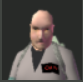
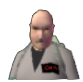
Updated Mortal Panel

diff --git a/lib/GameScrens/03_Haunting/Haunting_Screen/GUI/SidePanel/SidePanel_ByCategory/Mortals/Panel/MortalPanel_GUI.dart b/lib/GameScrens/03_Haunting/Haunting_Screen/GUI/SidePanel/SidePanel_ByCategory/Mortals/Panel/MortalPanel_GUI.dart
@@ -3,25 +3,32 @@ import 'package:flutter/material.dart';
 import 'package:flutter/src/widgets/framework.dart';
 import 'package:happyhaunting/Data/Database/Enums/Tags/Power/05_PowerTag.dart';
 import 'package:happyhaunting/GameScrens/03_Haunting/Haunting_Game/Classes/Mortal/Haunting_Mortal.dart';
+import 'package:happyhaunting/GameScrens/03_Haunting/Haunting_Screen/GUI/SidePanel/SidePanel_ByCategory/Ghosts/Panel/GhostPanel_GUI.dart';
 import 'package:happyhaunting/GameScrens/03_Haunting/ViewModel/HauntingGame_ViewModel.dart';
 
 class MortalPanel_GUI{
   static getMortalPanel(BuildContext context, double width, double height, HauntingGame_ViewModel viewModel, Haunting_Mortal mortal) {
 
-    double bars_Width = width * 0.5;
+    double bars_Width = width * 0.6;
     double bars_Height = height * 0.9;
+    double bars_Padding_Right = bars_Width * 0.05;
     return Container(
       height: height, width: width,
       child: Stack(
         alignment: Alignment(0, 0),
         children: [
           //BACKGROUND
+          GhostPanel_GUI.getBackground(context, mortal.isDefeated, height, width),
+          //MOON
+          Positioned(top: 0, left: 0, child: GhostPanel_GUI.getMoonImage(!mortal.isDefeated, height)),
           //MORTAL IMAGE
           Positioned(top: 0, left: 0, child: getMortalImage(width, height, mortal, viewModel)),
+
           //STATS
-          Positioned(right: 0, child: getMortalBars(bars_Width, bars_Height, mortal, viewModel)),
-          //FEAR
-          Positioned(left: 0, child: getMortalFear(mortal, viewModel)),
+          Positioned(right: bars_Padding_Right, child: getMortalBars(bars_Width, bars_Height, mortal, viewModel)),
+
+          // //FEAR
+          // Positioned(left: 0, child: getMortalFear(mortal, viewModel)),
 
         ],
       ),
@@ -37,39 +44,34 @@ class MortalPanel_GUI{
     );
   }
 
-  static getMortalStats(double width, double height, Haunting_Mortal mortal, HauntingGame_ViewModel viewModel) {
-    return Container(
-      height: height, width: width, color: Colors.white,
-      child: Column(
-        mainAxisAlignment: MainAxisAlignment.center,
-        children: [
-          Text("${mortal.stat_Current_Health} / ${mortal.stat_Health}"),
-          Text("${mortal.stat_Current_Fear} / ${mortal.stat_Fear}"),
-          Text("${mortal.stat_Current_Madness} / ${mortal.stat_Madness}"),
-          Text("${mortal.stat_Current_Faith} / ${mortal.stat_Faith}"),
-        ],
-      ),
-    );
-  }
-
   static getMortalBars(double width, double height, Haunting_Mortal mortal, HauntingGame_ViewModel viewModel) {
     double paddingHeight = height * 0.08;
-    double bar_Height = (height - paddingHeight * 5) / 4;
+    double bar_Height = (height - paddingHeight) * 0.25;
+    double bar_Width = width * 0.45;
+    double bar_Padding_Middle = (width - bar_Width * 2) * 0.3;
 
     return Container(
       height: height, width: width,
       child: Column(
         mainAxisAlignment: MainAxisAlignment.center,
         children: [
+          Row(
+            mainAxisAlignment: MainAxisAlignment.center,
+            children: [
+              getMortalBar_ByStat(bar_Width, bar_Height, mortal.stat_Current_Health, mortal.stat_Health, "Red"),
+              Padding(padding: EdgeInsets.only(left: bar_Padding_Middle)),
+              getMortalBar_ByStat(bar_Width, bar_Height, mortal.stat_Current_Fear, mortal.stat_Fear, "Green"),
+            ],
+          ),
           Padding(padding: EdgeInsets.only(top: paddingHeight)),
-          getMortalBar_ByStat(width, bar_Height, mortal.stat_Current_Health, mortal.stat_Health, "Red"),
-          Padding(padding: EdgeInsets.only(top: paddingHeight)),
-          getMortalBar_ByStat(width, bar_Height, mortal.stat_Current_Fear, mortal.stat_Fear, "Purple"),
-          Padding(padding: EdgeInsets.only(top: paddingHeight)),
-          getMortalBar_ByStat(width, bar_Height, mortal.stat_Current_Madness, mortal.stat_Madness, "Yellow"),
-          Padding(padding: EdgeInsets.only(top: paddingHeight)),
-          getMortalBar_ByStat(width, bar_Height, mortal.stat_Current_Faith, mortal.stat_Faith, "Blue"),
-          Padding(padding: EdgeInsets.only(top: paddingHeight)),
+          Row(
+            mainAxisAlignment: MainAxisAlignment.center,
+            children: [
+              getMortalBar_ByStat(bar_Width, bar_Height, mortal.stat_Current_Madness, mortal.stat_Madness, "Yellow"),
+              Padding(padding: EdgeInsets.only(left: bar_Padding_Middle)),
+              getMortalBar_ByStat(bar_Width, bar_Height, mortal.stat_Current_Faith, mortal.stat_Faith, "Blue"),
+            ],
+          )
         ],
       ),
     );
@@ -118,5 +120,6 @@ class MortalPanel_GUI{
     }
     return Text(fear);
   }
+
 
 }

diff --git a/lib/GameScrens/03_Haunting/Haunting_Screen/GUI/SidePanel/SidePanel_ByCategory/Ghosts/Panel/GhostPanel_GUI.dart b/lib/GameScrens/03_Haunting/Haunting_Screen/GUI/SidePanel/SidePanel_ByCategory/Ghosts/Panel/GhostPanel_GUI.dart
@@ -33,9 +33,9 @@ class GhostPanel_GUI{
         alignment: Alignment(0, 0),
         children: [
           //BACKGROUND
-          getBackground(context, ghost.isDefeated, height),
+          getBackground(context, ghost.isDefeated, height, width),
           //MOON
-          Positioned(top: 0, left: 0, child: getMoonImage(ghost.isPlaced, height, isGhostChosen)),
+          Positioned(top: 0, left: 0, child: getMoonImage(ghost.isPlaced, height, isGhostChosen: isGhostChosen)),
           //GHOST IMAGE
           Positioned(top: 0, left: 0, child: getGhostImage(width, height, ghost, viewModel)),
           //POWERS
@@ -149,18 +149,20 @@ class GhostPanel_GUI{
     // return Text("${ghost.health_Current} / ${ghost.health_Maximum}");
   }
 
-  static getBackground(BuildContext context, bool isDefeated, double height) {
+  static getBackground(BuildContext context, bool isDefeated, double height, double width) {
     String background = "assets/images/UI/SidePanel/Panel_Background.png";
     if(isDefeated){
       background = "assets/images/UI/SidePanel/Panel_Background_Exorcist.png";
     }
     return Container(
-      height: height,
-      child: Image.asset(background, fit: BoxFit.fitHeight,),
+      height: height, width: width,
+      child: Image.asset(background, fit: BoxFit.fitWidth,),
     );
   }
 
-  static getMoonImage(bool isPlaced, double height, bool isGhostChosen) {
+  static getMoonImage(bool isPlaced, double height, {
+    bool isGhostChosen = false
+  }) {
     String background = "assets/images/UI/SidePanel/Moon_InActive.png";
     if(isPlaced || isGhostChosen){
       background = "assets/images/UI/SidePanel/Moon_Active.png";

diff --git a/lib/GameScrens/03_Haunting/Haunting_Screen/GUI/SidePanel/SidePanel_ByCategory/Mortals/MortalsList_GUI.dart b/lib/GameScrens/03_Haunting/Haunting_Screen/GUI/SidePanel/SidePanel_ByCategory/Mortals/MortalsList_GUI.dart
@@ -15,10 +15,12 @@ class MortalsList_GUI{
         if (a.isDefeated) return 1;
         return -1;
       });
+
       int itemCount = mortals.length;
-      double itemHeight = height / 5;
+      double itemHeight = height / 7;
+
       return Container(
-        height: height, width: width, color: Colors.amber,
+        height: height, width: width,
         child: ListView.builder(
             itemCount: itemCount,
             itemBuilder: (context, index){
